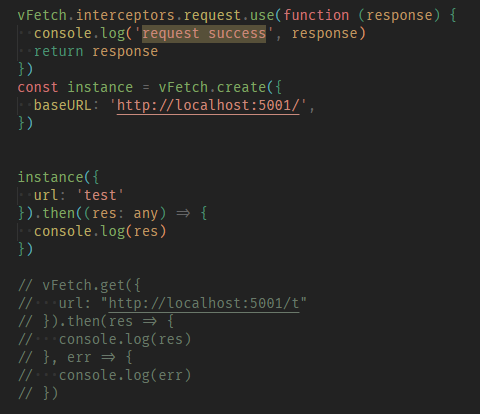
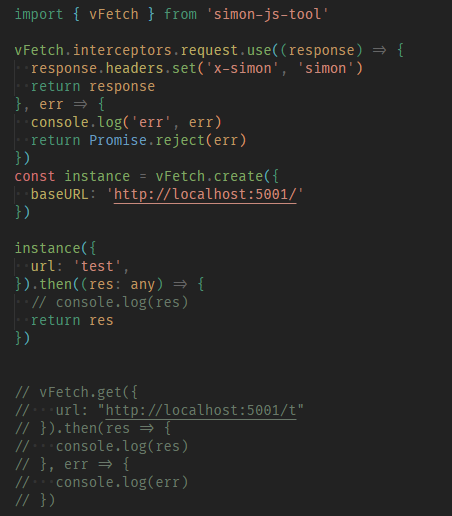
chore: update  vFetch

diff --git a/src/VFetch.ts b/src/VFetch.ts
@@ -1,32 +1,42 @@
-import type { IFetchOptions, VFetch } from './types'
+import type { IFetchOptions, VFetch, VFetchConfig } from './types'
 
-export function vFetch(this: any, options: VFetch) {
+export function vFetch(this: any, options: VFetchConfig): any {
+  if (this === undefined)
+    return vFetch.create({})(options)
+
   const { url, method, headers, bodyType, params, credentials, responseType, timeout, transformResponse, cache, redirect, mode } = options
-  if (url?.startsWith('http'))
-    this.url = url
-  else
-    this.url = (this.baseURL || '') + (url || '')
-  this.method = method || this.method || 'GET'
-  this.bodyType = bodyType || 'json'
-  this.credentials = credentials || 'omit'
-  this.responseType = responseType || 'json'
-  this.timeout = timeout || this.timeout
-  this.transformResponse = transformResponse
-  this.cache = cache || 'default'
-  this.redirect = redirect || 'manual'
-  this.mode = mode || 'cors'
-  this.headers = {
-    'Content-Type': 'application/json',
-  }
-  this.body = {}
+  this.config = Object.assign(this.config, {
+    url: url?.startsWith('http')
+      ? url
+      : (this.config.baseURL || '') + (url || ''),
+    method: method || this.config.method || 'GET',
+    bodyType: bodyType || 'json',
+    credentials: credentials || 'omit',
+    responseType: responseType || 'json',
+    timeout: timeout || this.config.timeout,
+    transformResponse,
+    cache: cache || 'default',
+    redirect: redirect || 'manual',
+    mode: mode || 'cors',
+    body: {},
+    headers: Object.assign({
+      'Content-Type': 'application/json',
+      set(this: any, key: string, value: any): void {
+        this[key] = value
+      },
+      has(key: string): boolean {
+        return this.hasOwnProperty(key)
+      },
+    }, this.config.headers),
+  })
   if (headers)
     this.set('headers', headers)
   if (params) {
     this.set('body', params)
-    this.url += `?${this.bodyToString}`
+    this.config.url += `?${this.bodyToString}`
   }
-  if (this.method === 'GET')
-    this.body = undefined
+  if (this.config.method === 'GET')
+    this.config.body = undefined
 
   this.result = this.request()
   return this
@@ -34,12 +44,12 @@ export function vFetch(this: any, options: VFetch) {
 
 vFetch.set = function set(this: any, target: keyof VFetch, value: Record<string, string> = {}) {
   Object.keys(value).forEach((key) => {
-    this[target][key] = value[key]
+    this.config[target][key] = value[key]
   })
 }
 
 vFetch.bodyToString = function bodyToString(this: VFetch) {
-  return Object.keys(this.body!).reduce((result, key) => result += `${key}=${encodeURI(this.body![key])}&`, '')
+  return Object.keys(this.config.body!).reduce((result, key) => result += `${key}=${encodeURI(this.config.body![key])}&`, '')
 }
 
 vFetch.request = function request(this: any) {
@@ -59,9 +69,8 @@ vFetch.request = function request(this: any) {
       this.body = JSON.stringify(this.body)
     }
   }
-
   return Promise.race([
-    fetch(this.url, this),
+    fetch(this.config.url, this.interceptors.request.success(this.config)),
     new Promise((resolve, reject) => {
       setTimeout(() => reject(new Error('request timeout')), this.timeout ? this.timeout : 30 * 1000)
     }),
@@ -69,10 +78,13 @@ vFetch.request = function request(this: any) {
     (response: any) => {
       if (response.status === 200) {
         return this.transformResponse
-          ? this.transformResponse(this.interceptors.request.success(response))
-          : this.interceptors.request.success(response)
+          ? this.transformResponse(this.interceptors.response.success(response))
+          : this.interceptors.response.success(response)
       }
-      return this.interceptors.request.error(response)
+      return this.interceptors.response.error(response)
+    },
+    (err) => {
+      return this.interceptors.request.error(err)
     },
   ).then(
     (response: Response) => {
@@ -87,12 +99,10 @@ vFetch.request = function request(this: any) {
       else if (this.responseType === 'arrayBuffer')
         return response.arrayBuffer()
     },
-  ).catch((err) => {
-    this.interceptors.request.error(err)
-  })
+  )
 }
 
-vFetch.then = async function then(this: any, successCallback: (res: any) => void, errorCallback?: (err: any) => Promise<void>) {
+vFetch.then = async function then(this: any, successCallback: (res: any) => void, errorCallback?: (err: any) => void) {
   try {
     const result = await this.result
     successCallback(this.interceptors.response.success(result))
@@ -106,30 +116,33 @@ vFetch.then = async function then(this: any, successCallback: (res: any) => void
 
 vFetch.create = function create(this: any, options: IFetchOptions) {
   const { baseURL, headers, timeout } = options
-  this.baseURL = baseURL || ''
-  this.headers = headers || {}
-  this.timeout = timeout || 20 * 1000
+  this.config = {
+    baseURL: baseURL || '',
+    headers: headers || {},
+    timeout: timeout || 20 * 1000,
+  }
+
   if (headers)
     this.set('headers', headers)
   return (options: any) => vFetch.call(this, options)
 }
 
-vFetch.get = function get(this: any, options: VFetch) {
+vFetch.get = function get(this: any, options: VFetchConfig) {
   this.method = 'GET'
   return vFetch.call(this, options)
 }
 
-vFetch.post = function post(this: any, options: VFetch) {
+vFetch.post = function post(this: any, options: VFetchConfig) {
   this.method = 'POST'
   return vFetch.call(this, options)
 }
 
-vFetch.put = function put(this: any, options: VFetch) {
+vFetch.put = function put(this: any, options: VFetchConfig) {
   this.method = 'PUT'
   return vFetch.call(this, options)
 }
 
-vFetch.DELETE = function DELETE(this: any, options: VFetch) {
+vFetch.DELETE = function DELETE(this: any, options: VFetchConfig) {
   this.method = 'DELETE'
   return vFetch.call(this, options)
 }

diff --git a/src/types.ts b/src/types.ts
@@ -7,21 +7,8 @@ export type Method = 'GET' | 'POST' | 'PUT' | 'DELETE' | 'OPTIONS'
 export type Credentials = 'omit' | 'include' | 'same-origin'
 
 export interface VFetch {
-  url?: string
-  baseURL?: string
-  body?: any
-  method?: Method
-  headers?: Record<string, string>
-  credentials?: Credentials
-  params?: Record<string, string>
-  timeout?: number
-  responseType?: ResponseType
-  bodyType?: BodyType
-  cache?: Cache
-  redirect?: Redirect
-  mode?: Mode
+  config: VFetchConfig
   result?: Promise<any>
-  transformResponse?: (response: Response) => Response
   set?: (target: keyof VFetch, value: Record<string, string>) => void
   bodyToString?: () => string
   request?: () => Promise<Response>
@@ -31,14 +18,31 @@ export interface VFetch {
     request: {
       use: (successCallback?: ((response: Response) => Response), errorCallback?: ((error: any) => Promise<never>)) => void
       success: (response: Response) => Response
-      error: (error: any) => Promise<any>
+      error: (error: any) => void
     }
     response: {
       use: (successCallback?: ((response: Response) => Response), errorCallback?: ((error: any) => Promise<never>)) => void
       success: (response: Response) => Response
-      error: (error: any) => Promise<any>
+      error: (error: any) => void
     }
   }
+}
+
+export interface VFetchConfig {
+  url?: string
+  baseURL?: string
+  body?: any
+  method?: Method
+  headers?: Record<string, any>
+  credentials?: Credentials
+  params?: Record<string, string>
+  timeout?: number
+  responseType?: ResponseType
+  bodyType?: BodyType
+  cache?: Cache
+  redirect?: Redirect
+  mode?: Mode
+  transformResponse?: (response: Response) => Response
 }
 
 export interface IFetchOptions {

diff --git a/playground/src/main.ts b/playground/src/main.ts
@@ -17,8 +17,11 @@ app.use(router)
 app.mount('#app')
 
 vFetch.interceptors.request.use((response) => {
-  // console.log('request success', response)
+  response.headers.set('x-simon', 'simon')
   return response
+}, (err) => {
+  // console.log('err', err)
+  return Promise.reject(err)
 })
 const instance = vFetch.create({
   baseURL: 'http://localhost:5001/',

diff --git a/playground/src/App.vue b/playground/src/App.vue
@@ -1,3 +1,16 @@
+<script setup lang="ts">
+// import { vFetch } from "../../src";
+
+// setTimeout(() => {
+//   vFetch({
+//     url: "test1",
+//   }).then((res: any) => {
+//     // console.log(res)
+//     return res;
+//   });
+// }, 2000);
+</script>
+
 <template>
   <main font-sans p="x-4 y-10" text="center gray-700 dark:gray-200">
     <router-view />

diff --git a/README.md b/README.md
@@ -31,39 +31,21 @@
 - isSymbol  // 判断是否是Symbol
 - isNaN  // 判断是否是NaN
 - isReg  // 判断是否是正则表达式
-- vFetch  // 基于fetch的axios api式请求封装 export interface VFetch {
-  url?: string
-  baseURL?: string
-  body?: any
-  method?: Method
-  headers?: Record<string, string>
-  credentials?: Credentials
-  params?: Record<string, string>
-  timeout?: number
-  responseType?: ResponseType
-  bodyType?: BodyType
-  cache?: Cache
-  redirect?: Redirect
-  mode?: Mode
-  result?: Promise<any>
-  transformResponse?: (response: Response) => Response
-  set?: (target: keyof VFetch, value: Record<string, string>) => void
-  bodyToString?: () => string
-  request?: () => Promise<Response>
-  then?: (resolve: (value: any) => void, reject: (reason: any) => void) => Promise<void>
-  create?: (options: IFetchOptions) => (options: VFetch) => VFetch
-  interceptors?: {
-    request: {
-      use: (successCallback?: ((response: Response) => Response), errorCallback?: ((error: any) => Promise<never>)) => void
-      success: (response: Response) => Response
-      error: (error: any) => Promise<any>
-    },
-    response: {
-      use: (successCallback?: ((response: Response) => Response), errorCallback?: ((error: any) => Promise<never>)) => void
-      success: (response: Response) => Response
-      error: (error: any) => Promise<any>
-    }
-  }
+- vFetch  // 基于fetch的axios api式请求封装  type VFetchConfig = {
+  url?: string // 请求地址
+  baseURL?: string // 基础url
+  body?: any // body参数 {},GET请求会合并到url后面
+  method?: Method // 请求类型 默认GET 'GET' | 'POST' | 'PUT' | 'DELETE' | 'OPTIONS' 支持vFetch.get | post | delete | put的形式
+  headers?: Record<string, any> // 请求头 例如: {'Content-Type': 'application/json'} 支持在请求拦截器中设置追加 config.headers.set('x-token', token)
+  credentials?: Credentials // 请求是否带上cookie 默认omit 'include' | 'same-origin' | 'omit' 
+  params?: Record<string, string> // 请求参数 根据bodyType决定是否会被序列化
+  timeout?: number // 超时时间 ms 默认为20000
+  responseType?: ResponseType // 返回类型 默认json 'formData' | 'text' | 'blob' | 'arrayBuffer' | 'json'
+  bodyType?: BodyType // 请求类型 默认json 'json' | 'form' | 'file' 
+  cache?: Cache // 缓存类型 默认不缓存 'no-cache' | 'default' | 'force-cache' | 'only-if-cached' 
+  redirect?: Redirect // 重定向 默认follow follow：跟随重定向，error：抛出错误，manual：手动处理
+  mode?: Mode // cors, no-cors, same-origin 默认cors cors：跨域，no-cors：不跨域，same-origin：同源
+  transformResponse?: (response: Response) => Response // 响应数据转换
 }
 - interceptError  // 自动捕获传入函数执行的异常
 
